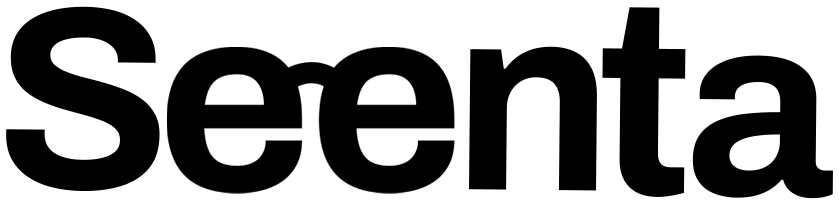
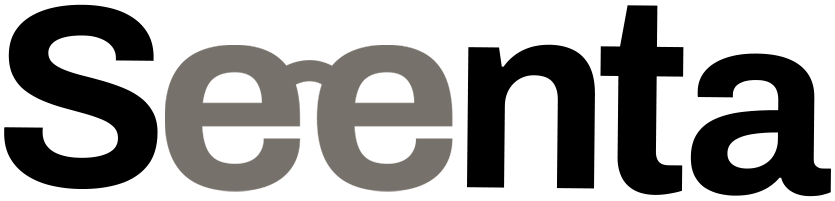
Update Seenta wordmark, make it smaller and baseline-align with caption
Claude-Session: https://claude.ai/code/session_01CzeGMeMpevBJMEDaxpxhGg

diff --git a/dashboard/src/styles.css b/dashboard/src/styles.css
@@ -124,14 +124,20 @@ p {
   gap: 11px;
   color: inherit;
   text-decoration: none;
+  /* Sit the wordmark's baseline on the "Class Monitor" baseline */
+  align-items: baseline;
 }
 
 /* Wordmark: black version in light mode, white version in dark mode */
 .brand-wordmark {
-  height: 30px;
+  --wordmark-h: 22px;
+  height: var(--wordmark-h);
   width: auto;
   display: block;
   flex: 0 0 auto;
+  /* Letters' baseline is ~7% above the image bottom (the "a" tail and padding),
+     so pull the image down by that much to line up with the caption baseline */
+  margin-bottom: calc(var(--wordmark-h) * -0.07);
 }
 
 .brand-wordmark-dark {
@@ -159,6 +165,7 @@ p {
 .brand-divider {
   height: 25px;
   border-left: 1px solid var(--border);
+  align-self: center;
 }
 
 .brand-caption {
